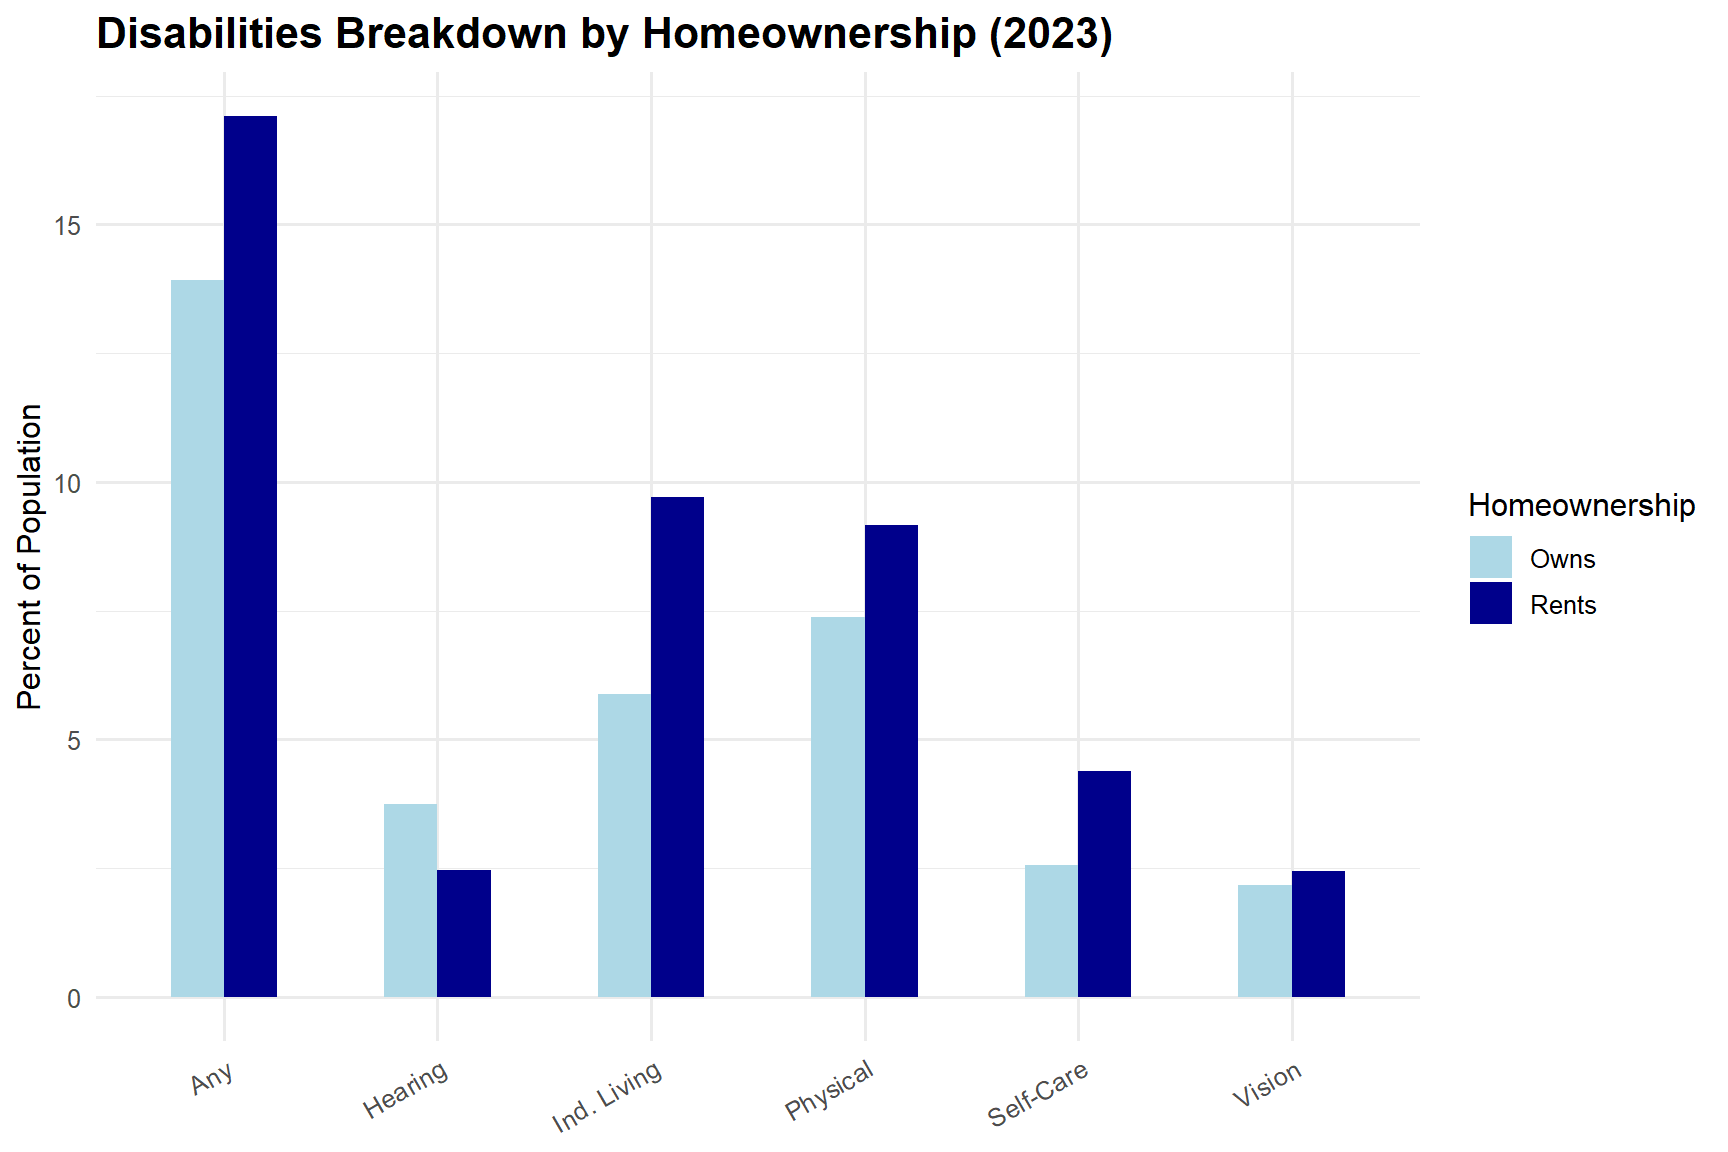
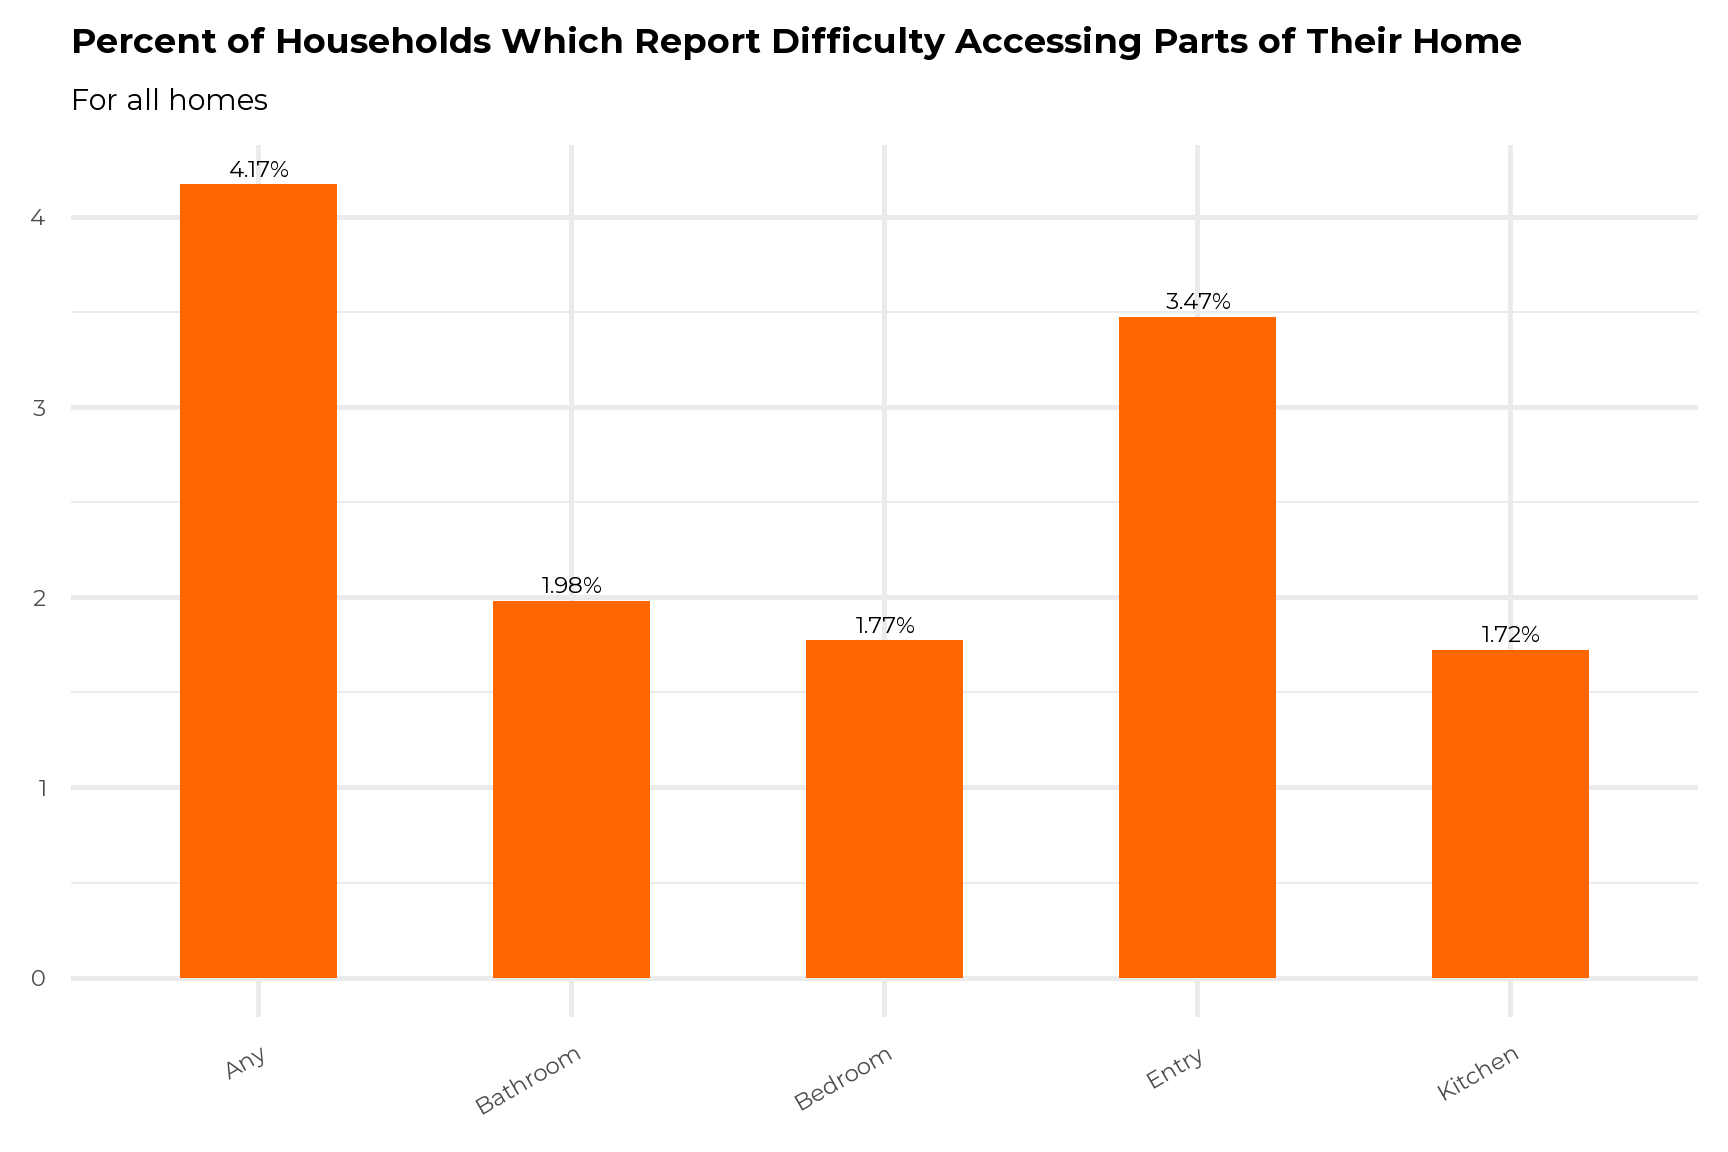
update githup page:

diff --git a/docs/index.html b/docs/index.html
@@ -446,6 +446,28 @@ Disabilities, and Special Needs have not yet been defined.</em></p>
 
 </div>
 </div>
+<div id="american-housing-survey-ahs" class="section level1">
+<h1>American Housing Survey (AHS)</h1>
+<div id="household-level-accessibility-estimates"
+class="section level2">
+<h2>Household Level Accessibility Estimates</h2>
+<p><img src="index_files/figure-html/household_accessibility_devices-1.png" width="864" /></p>
+</div>
+<div id="accessing-areas-of-the-home" class="section level2 tabset">
+<h2 class="tabset">Accessing Areas of the Home</h2>
+<div
+id="households-including-a-person-who-uses-a-mobility-assistive-device"
+class="section level3">
+<h3>Households Including a Person Who Uses a Mobility Assistive
+Device</h3>
+<p><img src="index_files/figure-html/hh_difficulty-1.png" width="864" /></p>
+</div>
+<div id="all-households" class="section level3">
+<h3>All Households</h3>
+<p><img src="index_files/figure-html/unnamed-chunk-3-1.png" width="864" /></p>
+</div>
+</div>
+</div>
 
 
 
